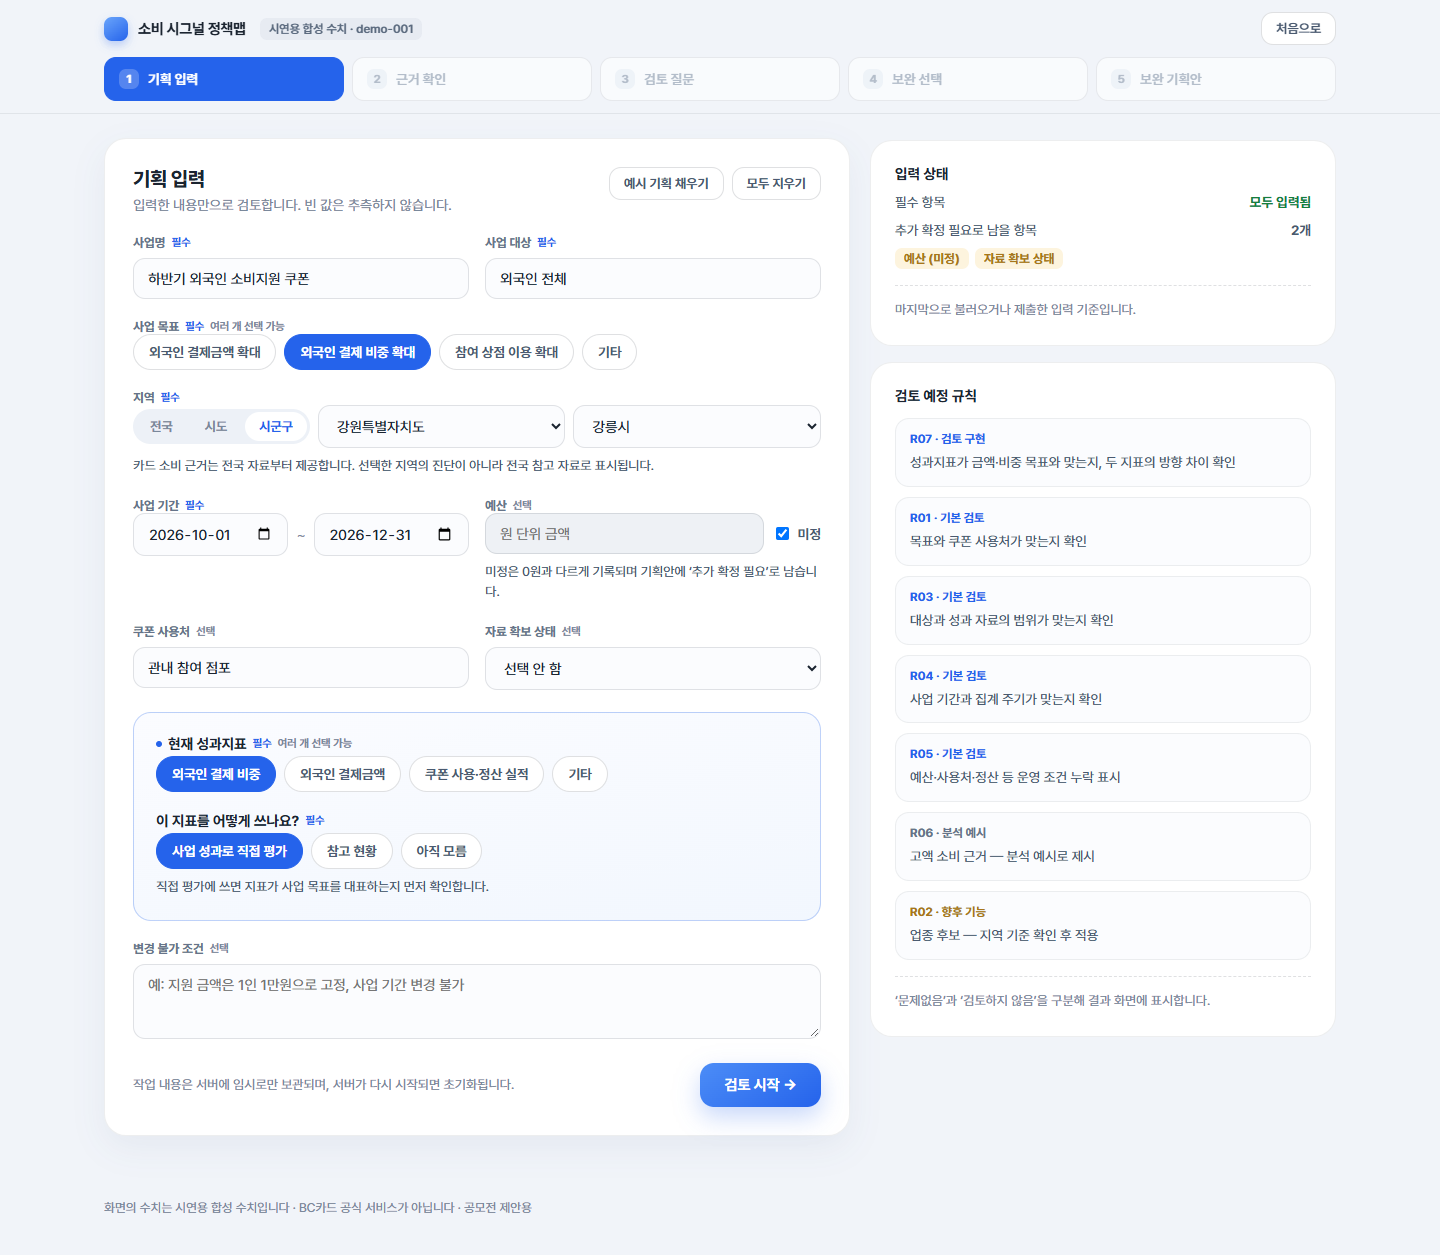
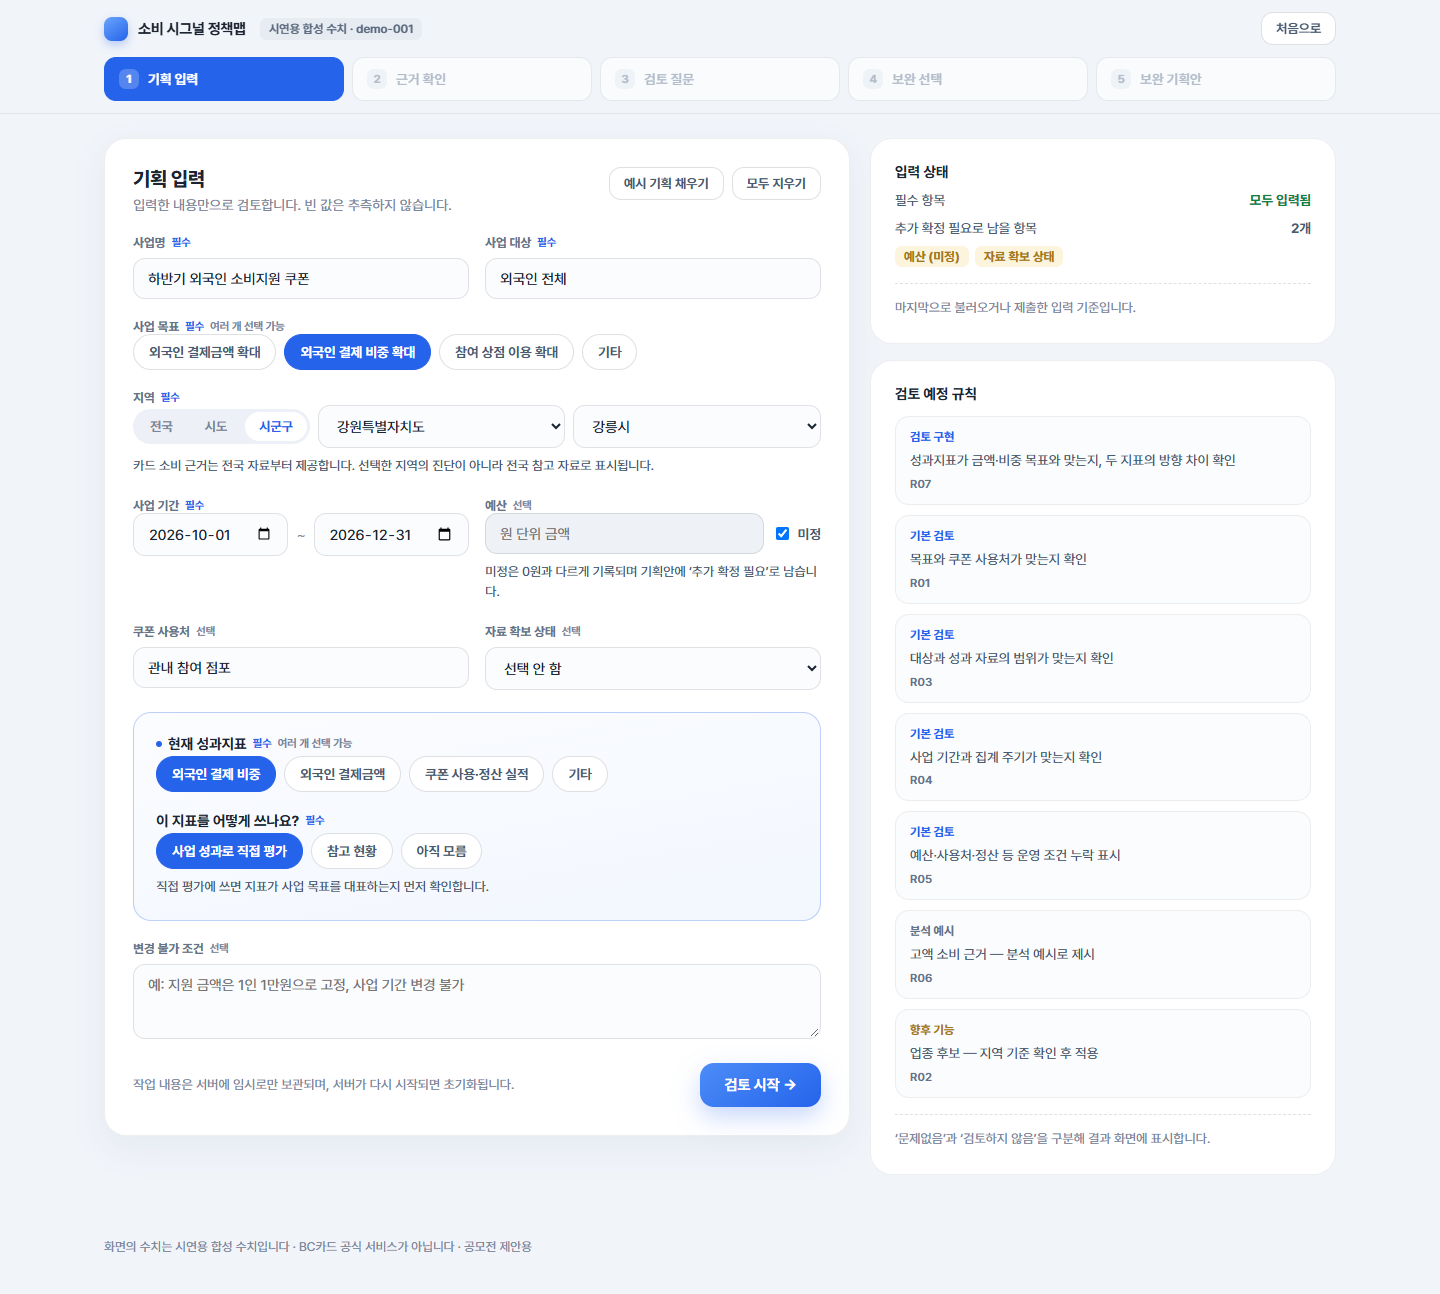
feat: 검토 규칙 관리 번호를 담당자 화면에서 빼고 추적 자리에만 남김
담당자에게 R07 같은 관리 번호는 뜻이 없어 제목을 먼저 보여 주고, 번호는
작은 회색 글씨로만 둔다 (사용자 결정 2026-09-18, checks.md 1장).

- 질문·보완 선택 카드: 제목만 크게, 번호는 `.rule-code` 배지로 오른쪽에
- 1단계 검토 예정 목록·3단계 오른쪽 목록: 범위 라벨·제목을 먼저, 번호는 아래 작게
- AI 참고 의견: 문장 끝 `[R07]` 표기를 화면에서 제거(`Opinion.display_text`).
  출력 검사는 원문으로 그대로 하므로 규칙 번호 확인은 변하지 않는다
- 4단계 재확인·보관 안내, 보완 기획안 8장 기록, 선택 안내 문구: 번호 대신 규칙 제목
- 별첨 변경 표·근거 추적·규칙 설명서·검수 문서는 번호 유지 (추적용)
- 사용법·partials/css README에 표시 규칙 설명 추가, 캡처 6장 재생성

uv run pytest 437개 통과(문구 검사 10곳 갱신), check_public_bundle 위반 없음.
규칙 판단·질문 문구 자체는 바뀌지 않았다.

diff --git a/src/policy_signal_map/web/templates/steps/choices.html b/src/policy_signal_map/web/templates/steps/choices.html
@@ -10,11 +10,11 @@
 
     {% set recheck_keys = choice_set.needs_recheck_keys %}
     {% if recheck_keys %}
-      <p class="notice">원안이 바뀌어 다시 확인이 필요한 선택이 {{ recheck_keys | length }}건 있습니다: {{ recheck_keys | join(", ") }}</p>
+      <p class="notice">원안이 바뀌어 다시 확인이 필요한 선택이 {{ recheck_keys | length }}건 있습니다: {% for key in recheck_keys %}{{ rule_titles.get(key, key) }}{{ ", " if not loop.last }}{% endfor %}</p>
     {% endif %}
     {% if choice_set.last_archived %}
       <p class="notice">원안 변경으로 더 이상 해당하지 않는 선택 {{ choice_set.last_archived | length }}건을 보관했습니다:
-        {% for item in choice_set.last_archived %}{{ item.choice.rule_id }}{{ ", " if not loop.last }}{% endfor %} (보완 기획안에는 반영하지 않습니다)</p>
+        {% for item in choice_set.last_archived %}{{ rule_titles.get(item.choice.rule_id, item.choice.rule_id) }}{{ ", " if not loop.last }}{% endfor %} (보완 기획안에는 반영하지 않습니다)</p>
     {% endif %}
     {% if not result.outcomes %}
       <p class="notice">고를 질문이 없습니다. 바로 보완 기획안을 만들 수 있습니다.</p>
@@ -26,10 +26,13 @@
     {% set shared = choice_set.execution_for(outcome.merge_group) %}
     <section class="card choice-card" id="q-{{ outcome.question_key }}">
       <div class="rule-card-head">
-        <span class="rule-card-id">{{ outcome.rule_id }} {{ outcome.title }}</span>
-        {% if choice %}
-          <span class="rule-card-kind">{{ decisions[choice.decision] }}{{ " · 재확인 필요" if choice.needs_recheck }}</span>
-        {% endif %}
+        <span class="rule-card-id">{{ outcome.title }}</span>
+        <span class="rule-card-meta">
+          <span class="rule-code" title="검토 규칙 관리 번호">{{ outcome.rule_id }}</span>
+          {% if choice %}
+            <span class="rule-card-kind">{{ decisions[choice.decision] }}{{ " · 재확인 필요" if choice.needs_recheck }}</span>
+          {% endif %}
+        </span>
       </div>
       <p class="rule-card-message">{{ outcome.message }}</p>
 

diff --git a/src/policy_signal_map/web/templates/steps/questions.html b/src/policy_signal_map/web/templates/steps/questions.html
@@ -63,7 +63,7 @@
       {% if result.no_finding %}
         <div class="rule-list">
           {% for item in result.no_finding %}
-            <div class="rule"><div class="rule-id">{{ item.rule_id }}</div><div class="rule-text">{{ item.title }}</div></div>
+            <div class="rule"><div class="rule-text">{{ item.title }}</div><div class="rule-code" title="검토 규칙 관리 번호">{{ item.rule_id }}</div></div>
           {% endfor %}
         </div>
       {% else %}
@@ -77,8 +77,9 @@
       <div class="rule-list">
         {% for item in result.not_reviewed %}
           <div class="rule rule-{{ 'example' if item.scope_label == '분석 예시' else 'future' }}">
-            <div class="rule-id">{{ item.rule_id }} · {{ item.scope_label }}</div>
+            <div class="rule-id">{{ item.scope_label }}</div>
             <div class="rule-text">{{ item.reason }}</div>
+            <div class="rule-code" title="검토 규칙 관리 번호">{{ item.rule_id }}</div>
           </div>
         {% endfor %}
       </div>

diff --git a/src/policy_signal_map/web/templates/partials/rule_card.html b/src/policy_signal_map/web/templates/partials/rule_card.html
@@ -2,8 +2,11 @@
 {% macro rule_card(outcome, rule_kind_labels) %}
 <article class="rule-card rule-card-{{ outcome.kind }}">
   <div class="rule-card-head">
-    <span class="rule-card-id">{{ outcome.rule_id }} {{ outcome.title }}</span>
-    <span class="rule-card-kind">{{ rule_kind_labels[outcome.kind] }}</span>
+    <span class="rule-card-id">{{ outcome.title }}</span>
+    <span class="rule-card-meta">
+      <span class="rule-code" title="검토 규칙 관리 번호">{{ outcome.rule_id }}</span>
+      <span class="rule-card-kind">{{ rule_kind_labels[outcome.kind] }}</span>
+    </span>
   </div>
 
   <p class="rule-card-message">{{ outcome.message }}</p>

diff --git a/src/policy_signal_map/web/static/css/style.css b/src/policy_signal_map/web/static/css/style.css
@@ -904,6 +904,24 @@ textarea.input {
   font-weight: 700;
 }
 
+/* 검토 규칙 관리 번호. 담당자가 읽을 내용이 아니므로 작고 흐리게 둔다 (사용자 결정 9/18) */
+.rule-card-meta {
+  display: flex;
+  align-items: center;
+  gap: 8px;
+}
+
+.rule-code {
+  font-size: 11.5px;
+  font-weight: 600;
+  letter-spacing: 0.02em;
+  color: var(--label);
+}
+
+.rule-list .rule-code {
+  margin-top: 6px;
+}
+
 .rule-card-kind {
   padding: 4px 10px;
   border-radius: 7px;

diff --git a/src/policy_signal_map/web/templates/steps/input.html b/src/policy_signal_map/web/templates/steps/input.html
@@ -199,8 +199,9 @@
       <div class="rule-list">
         {% for rule in rules %}
           <div class="rule rule-{{ rule.scope }}">
-            <div class="rule-id">{{ rule.id }} · {{ rule.scope_label }}</div>
+            <div class="rule-id">{{ rule.scope_label }}</div>
             <div class="rule-text">{{ rule.summary }}</div>
+            <div class="rule-code" title="검토 규칙 관리 번호">{{ rule.id }}</div>
           </div>
         {% endfor %}
       </div>

diff --git a/tests/test_question_routes.py b/tests/test_question_routes.py
@@ -35,7 +35,7 @@ def test_step_three_route_shows_its_own_screen():
 def test_step_three_shows_question_with_evidence_and_scope():
     text = text_of(reviewed_client().get("/step/3").text)
     assert "검토 질문 1건" in text
-    assert "R07 금액·비중과 성과지표 확인 질문" in text
+    assert "금액·비중과 성과지표 확인" in text and "R07" in text  # 제목 + 작은 번호 배지
     assert "외국인 결제금액 확대인가요" in text
     assert "왜 묻나요? 2026년 1~6월 전국 자료에서 비교 가능한 5개 인접 월 구간 중 2개 구간에서" in text
     assert "전국 참고 — 특정 지역의 진단이 아님" in text
@@ -45,7 +45,7 @@ def test_step_three_shows_question_with_evidence_and_scope():
 
 def test_step_three_shows_pending_items():
     text = text_of(reviewed_client().get("/step/3").text)
-    assert "R05 빠진 운영 조건 확인 추가 확정 필요" in text
+    assert "빠진 운영 조건 확인" in text and "추가 확정 필요" in text
     # 예시 폼은 예산을 비워 두므로 "미입력"이다 ([미정] 체크 시에는 "미정")
     assert "예산 (미입력), 쿠폰 사용처, 자료 확보 상태" in text
 
@@ -61,8 +61,8 @@ def test_step_three_separates_no_finding_and_not_reviewed():
     text = text_of(reviewed_client().get("/step/3").text)
     assert "확인했으나 해당 없음" in text
     assert "R01" in text and "R03" in text and "R04" in text
-    assert "검토하지 않음 R06 · 분석 예시" in text
-    assert "R02 · 향후 기능" in text
+    assert "검토하지 않음 분석 예시" in text and "R06" in text
+    assert "향후 기능" in text and "R02" in text
 
 
 def cards_text(html: str) -> str:

diff --git a/tests/test_choice_routes.py b/tests/test_choice_routes.py
@@ -51,7 +51,9 @@ def test_saving_choice_keeps_it_after_reload():
     assert str(response.url).endswith("/step/4")
 
     text = text_of(c.get("/step/4").text)
-    assert "R07 금액·비중과 성과지표 확인 채택" in text
+    # 제목에는 관리 번호를 쓰지 않고 작은 번호 배지로만 보여 준다 (사용자 결정 9/18)
+    assert "금액·비중과 성과지표 확인" in text and "채택" in text
+    assert "R07 금액·비중과 성과지표 확인" not in text
     assert "관광과 김담당" in c.get("/step/4").text
     assert "쿠폰 사용 실적" in c.get("/step/4").text
 
@@ -195,14 +197,14 @@ def test_archive_notice_shows_only_the_latest_plan_change():
     c = reviewed_client(TOURIST_FORM)
     c.post("/step/4", data={"question_key": "R03", "decision": "keep_original"})
     c.post("/step/1", data=VALID_FORM)
-    assert notice(c) == ("1", "R03")
+    assert notice(c) == ("1", "대상과 자료 확인")
 
     c.post("/step/1", data=TOURIST_FORM)
     c.post("/step/4", data={"question_key": "R03", "decision": "keep_original"})
     assert notice(c) is None
 
     c.post("/step/1", data=VALID_FORM)
-    assert notice(c) == ("1", "R03")
+    assert notice(c) == ("1", "대상과 자료 확인")
 
     c.post("/step/1", data={**VALID_FORM, "name": "사업명만 바꿈"})
     assert notice(c) is None

diff --git a/src/policy_signal_map/choices/selection.py b/src/policy_signal_map/choices/selection.py
@@ -156,7 +156,7 @@ def pending_from_choices(choice_set: ChoiceSet, result: ReviewResult) -> list[st
         if choice is None:
             continue
         if choice.decision is Decision.HOLD:
-            pending.append(f"{outcome.rule_id} {outcome.title}: 보류")
+            pending.append(f"{outcome.title}: 보류")
     for merge_group, execution in choice_set.executions.items():
         for label in execution.pending_labels():
             pending.append(f"{merge_group_label(merge_group)}: {label}")
@@ -169,7 +169,7 @@ def blocking_reasons(result: ReviewResult, choice_set: ChoiceSet) -> list[str]:
     for outcome in result.questions:
         choice = choice_set.get(outcome.question_key)
         if choice is None:
-            reasons.append(f"{outcome.rule_id} {outcome.title}: 아직 고르지 않았습니다")
+            reasons.append(f"{outcome.title}: 아직 고르지 않았습니다")
         elif choice.needs_recheck:
-            reasons.append(f"{outcome.rule_id} {outcome.title}: 원안이 바뀌어 다시 확인이 필요합니다")
+            reasons.append(f"{outcome.title}: 원안이 바뀌어 다시 확인이 필요합니다")
     return reasons

diff --git a/src/policy_signal_map/llm/guard.py b/src/policy_signal_map/llm/guard.py
@@ -12,6 +12,8 @@ from dataclasses import dataclass
 from ..review.rules import FORBIDDEN_WORDS
 
 RULE_ID = re.compile(r"R\d{2}")
+# 문장 끝·중간에 붙는 번호 표기: [R07], (R07, R05), [R07·R05]
+RULE_CITATION = re.compile(r"[\[(]\s*R\d{2}(?:\s*[,·/]\s*R\d{2})*\s*[\])]")
 # 규칙 번호를 뺀 뒤 남는 숫자·비율·금액 표기
 NUMBER = re.compile(r"\d|[%％]")
 # 수량을 나타내는 한글 표현. 수치를 글자로 바꿔 쓰는 것도 막는다
@@ -29,6 +31,16 @@ MAX_LINES = 3
 class Opinion:
     text: str
     cited_rule_ids: tuple[str, ...]
+
+    @property
+    def display_text(self) -> str:
+        """화면용 문장. 모델이 붙인 [R07] 같은 관리 번호 표기를 뺀다.
+
+        번호는 카드 아래 근거 배지로 따로 보여 주므로 문장에 두 번 나올 필요가 없다.
+        검사(check)는 원문 text로 하므로 규칙 번호 확인은 그대로 동작한다.
+        """
+        cleaned = RULE_CITATION.sub("", self.text)
+        return re.sub(r"\s{2,}", " ", cleaned).strip(" ·,")
 
 
 @dataclass(frozen=True)

diff --git a/tests/test_choices.py b/tests/test_choices.py
@@ -111,7 +111,7 @@ def test_keep_original_and_hold_clear_option_fields():
 
     apply_choice(choice_set, outcome_of(result, "R07"), {"decision": "hold"})
     assert choice_set.get("R07").decision is Decision.HOLD
-    assert "R07 금액·비중과 성과지표 확인: 보류" in pending_from_choices(choice_set, result)
+    assert "금액·비중과 성과지표 확인: 보류" in pending_from_choices(choice_set, result)
 
 
 def test_cancel_removes_choice_and_unused_execution():
@@ -151,7 +151,7 @@ def test_blocking_reasons_list_unanswered_questions():
     choice_set = ChoiceSet()
     reasons = blocking_reasons(result, choice_set)
     assert len(reasons) == 2
-    assert any(r.startswith("R07") and "아직 고르지" in r for r in reasons)
+    assert any(r.startswith("금액·비중과 성과지표 확인") and "아직 고르지" in r for r in reasons)
 
     apply_choice(choice_set, outcome_of(result, "R07"), {"decision": "hold"})
     apply_choice(choice_set, outcome_of(result, "R03"), {"decision": "keep_original"})

diff --git a/src/policy_signal_map/web/routes/choices.py b/src/policy_signal_map/web/routes/choices.py
@@ -12,6 +12,7 @@ from ..dependencies import evidence_state_dep, session_dep
 from ..evidence_state import EvidenceState
 from ..forms import parse_choice_form
 from ..session import WorkState
+from ...review.rules import rules_by_id
 from ..templating import redirect, render
 
 router = APIRouter()
@@ -27,6 +28,8 @@ def _context(state: WorkState, evidence: EvidenceState, errors: dict[str, str] |
         "choice_set": state.choices,
         "pending": pending_from_choices(state.choices, result),
         "blocking": blocking_reasons(result, state.choices),
+        # 안내 문구에 관리 번호(R07) 대신 제목을 쓰기 위한 표 (사용자 결정 9/18)
+        "rule_titles": {rule_id: rule.title for rule_id, rule in rules_by_id().items()},
         "decisions": DECISION_LABELS,
         "availabilities": AVAILABILITY_LABELS,
         "errors": errors or {},

diff --git a/tests/test_opinion_routes.py b/tests/test_opinion_routes.py
@@ -86,9 +86,10 @@ def test_opinions_are_returned_with_rule_ids(local_llm, monkeypatch):
     data = reviewed_client().get("/step/3/opinions").json()
 
     assert data["state"] == "ok"
+    # 화면 문장에서는 [R07] 표기를 빼고 근거 배지로만 보여 준다 (9/18)
     assert [o["text"] for o in data["opinions"]] == [
-        "참여자 확인 자료를 어디서 모을지 정해 두세요 [R07]",
-        "사용처 범위를 적어 두세요 [R07]",
+        "참여자 확인 자료를 어디서 모을지 정해 두세요",
+        "사용처 범위를 적어 두세요",
     ]
     assert data["opinions"][0]["rule_ids"] == ["R07"]
     assert data["model"] == "시험모델"
